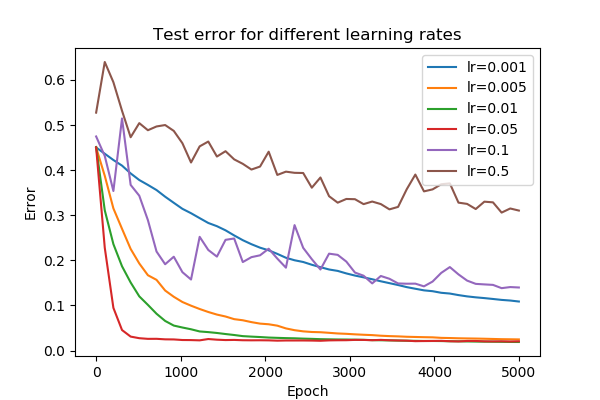
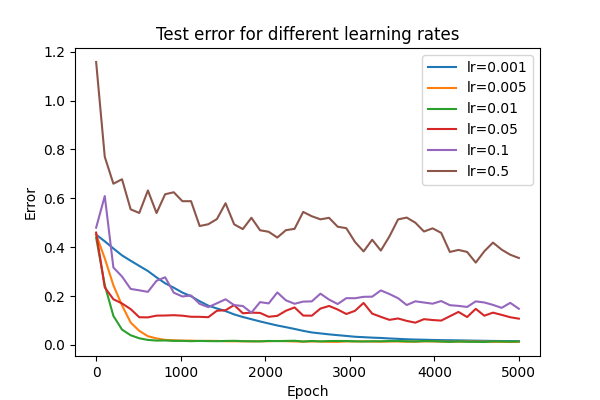
refactor assigment1 and added learning schedule

diff --git a/assignment3/main.py b/assignment3/main.py
@@ -117,6 +117,61 @@ plt.savefig('test_differentlr.png')
 plt.show()
 
 # add learning_rate(t) = a/(b+t)?
+########################### Test learningrate schedule ###########################
+print('-------------- Test different Ps -------------------')
+P_sizes = [20, 50, 200, 500, 1000, 2000]
+train_errors = []
+test_errors=[]
+for n_train in P_sizes:
+    print('---------------- P = ', n_train, ' ------------------')
+    xi_train, tau_train, xi_test, tau_test = load_data(n_train=n_train, n_test=Q)
+    w, err, test_err = sgd_training(xi_train=xi_train, tau_train=tau_train, xi_test=xi_test,
+                                    tau_test=tau_test, n_epochs=N_EPOCHS, learning_rate=LR, k=K, lr_schedule=True)
+    if n_train is 20:
+        train_errors = err
+        test_errors = test_err   
+    else:
+        train_errors = np.vstack([train_errors, err])
+        test_errors = np.vstack([test_errors, test_err])
+    print("train error: ", err[len(err)-1], "test error: ", test_err[len(test_err)-1])
+
+plt.rcParams['figure.figsize'] = (6, 4)
+for i in range(np.shape(train_errors)[0]):    
+    plt.plot(x, train_errors[i,:])
+plt.legend(['P=20', 'P=50', 'P=200', 'P=500', 'P=1000', 'P=2000'])
+plt.title("Training error for different P's with learning rate schedule")
+plt.xlabel("Epoch")
+plt.ylabel("Error")
+plt.savefig('train_differentp_schedule.png') 
+plt.show()
+
+for i in range(np.shape(test_errors)[0]):    
+    plt.plot(x, test_errors[i,:])
+plt.legend(['P=20', 'P=50', 'P=200', 'P=500', 'P=1000', 'P=2000'])
+plt.title("Test error for different P's with learning rate schedule")
+plt.xlabel("Epoch")
+plt.ylabel("Error")
+plt.savefig('test_differentp_schedule.png') 
+plt.show()
+
+
+##################### Plots weights ########################
+# barplot of w1 and w2
+w = np.loadtxt('w.txt', delimiter=' ')
+plt.bar(np.arange(w[:,0].size), w[:,0])
+plt.title("Components of w1 vector")
+plt.xlabel("Component")
+plt.ylabel("Value")
+plt.savefig('w1.png')
+plt.show()
+
+plt.bar(np.arange(w[:,1].size), w[:,1])
+plt.title("Components of w2 vector")
+plt.xlabel("Component")
+plt.ylabel("Value")
+plt.savefig('w2.png')
+plt.show()
+
 
 ##################### More plots ########################
 

diff --git a/assignment3/scr/functions.py b/assignment3/scr/functions.py
@@ -46,8 +46,13 @@ def calculate_test_error(k, xi, tau, w):
     return calculate_error(sigma, tau)
 
 def calculate_gradient(xi,sigma, tau, w):
+    # return 1/2 * np.mean((sigma - tau.astype(float)) ** 2)
+
     gradient = (sigma - tau) * (1 - np.tanh(w.T @ xi.reshape(-1, 1))**2)
     return gradient
+
+def learning_rate_schedule(epoch, curr_lr, d=0.01):
+    return curr_lr/(1 + epoch*d)
 
 def calculate_learning_step(xi_train, tau_train, w, learning_rate):
     # select random example
@@ -57,10 +62,6 @@ def calculate_learning_step(xi_train, tau_train, w, learning_rate):
     
     # calculate sigma
     sigma = calculate_output(k=np.shape(w)[1], xi=xi, w=w)
-        
-    # calculate error
-    error = calculate_error(sigma, tau)
-
     #print("sigma: ", sigma, " tau: ", tau, " error: ", error)
 
     # calculate gradient
@@ -68,16 +69,17 @@ def calculate_learning_step(xi_train, tau_train, w, learning_rate):
     # update weights 
     for i in range(len(partial_gradients)):
         g = partial_gradients[i] * xi
-        w[:,i] -= learning_rate * g * error    # *error?
+        w[:,i] -= learning_rate * g
     return w
 
-def sgd_training(xi_train, tau_train, xi_test, tau_test, n_epochs=500, learning_rate=0.05, seed=0, k=2):
+def sgd_training(xi_train, tau_train, xi_test, tau_test, n_epochs=500, learning_rate=0.05, seed=0, k=2, lr_schedule=False):
     # initialize weights
     w = initialize_weights(k, len(xi_train), seed)
     errors = []
     test_errors = []
     for i in range(n_epochs):
         w = calculate_learning_step(xi_train=xi_train, tau_train=tau_train, w=w, learning_rate=learning_rate)
+
         # calculate errors each 100 steps (so that even dim. of error vectors eventually)
         if i % 100 == 0:        
             sigma_train = calculate_output(xi=xi_train, w=w)
@@ -86,4 +88,6 @@ def sgd_training(xi_train, tau_train, xi_test, tau_test, n_epochs=500, learning_
             sigma_test = calculate_output(xi=xi_test, w=w)
             error = calculate_error(sigma_test, tau_test)
             test_errors.append(error)
+        if lr_schedule:
+            learning_rate = learning_rate_schedule(i, learning_rate, d=0.005)
     return w, errors, test_errors

diff --git a/assignment1/main.py b/assignment1/main.py
@@ -1,0 +1,75 @@
+from typing import List
+import pickle
+import numpy as np
+
+
+def generate_data(p,n):
+    # Generates P amount of N dimensional feature vectors sampled from a gaussian with -1,1 random labels
+    xi = np.random.normal(0.0, 1.0, (p, n))
+    labels = np.random.choice([-1, 1], p)
+
+    return xi, labels
+
+def rosenblad(p: int, n: int, max_epochs: int = 100) -> bool:
+    # p = number of vectors
+    # n = number of dimensions
+    # xi = p array of feature vectors
+    # labels = randomly sampled -1 , 1 labels
+    # Note: D = (xi, labels)
+    # epochs = amount of epocs
+    # weights = n dimensional weight vector
+    # e = output of rosenblad formula
+    xi, labels = generate_data(p, n)
+
+    weights = np.zeros(n)
+
+    success_count = 0
+
+    for _ in range(max_epochs):
+        for j in range(p):
+            e = np.dot(weights, xi[j]) * labels[j] #P: is het niet e = np.dot(weights, xi[j] * labels[j])? of is dat hetzelfde?
+
+            if e <= 0:
+                weights = weights + 1/n * (xi[j] * labels[j])
+            else:
+                success_count += 1
+
+        if success_count == p:
+            return True
+
+        success_count = 0
+
+    return False
+
+
+def run(all_n, alpha, max_epoch=100, n_runs = 50):
+    result = []
+
+    for n in all_n:
+        print("now doing n = ", n)
+        # P is defined as a function of alpha * N
+        all_p = np.round(n * alpha)                 
+
+        for p, current_alpha in zip(all_p, alpha):
+            successes = []
+
+            for _ in range(n_runs):
+                successes.append(rosenblad(int(p), n, max_epoch))
+
+            # Since rosenblad returns a boolean we can calculate the success rate
+            success_fraction = np.mean(np.array(successes))
+            result.append((current_alpha, p, n, success_fraction))
+
+    return np.array(result)
+
+
+if __name__ == '__main__':
+
+    all_n = [20, 40, 60, 80, 100]
+    alpha = np.arange(0.75, 3.01, 0.10)
+    result = run(all_n, alpha, n_runs=100)
+
+    print(result)
+    # save the plot in plot folder
+    with open('plot/result.pkl', 'wb') as f:
+        pickle.dump(result, f)

diff --git a/assignment1/plot/plot.py b/assignment1/plot/plot.py
@@ -1,0 +1,26 @@
+from typing import List, Union
+import numpy as np
+import matplotlib.pyplot as plt
+import pickle
+
+with open('result.pkl', 'rb') as f:
+    result: List[Union[float, int, float]] = pickle.load(f)
+
+
+if __name__ == '__main__':
+    # plot the success rate as a function of alpha and p
+    alpha = np.unique(result[:, 0])
+
+    for n in np.unique(result[:, 2]):
+        # if n == 20 or n == 40:
+            # plt.plot(alpha, result[result[:, 2] == n, 3], label=f'n={n}')
+        plt.plot(alpha, result[result[:, 2] == n, 3],  label=f'n={n}')
+
+    # set the x labels of the plot
+
+    plt.xticks(np.arange(0.75, 3.01, 0.20))
+    plt.xlabel('Alpha level')
+    plt.ylabel('Q_l.s. ')
+    plt.title('Q_l.s. rate as a function of alpha and p')
+    plt.legend()
+    plt.savefig("img/success_rate.png")
